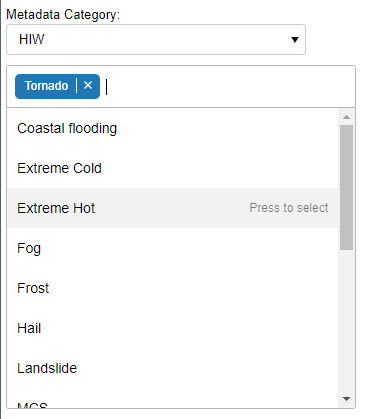
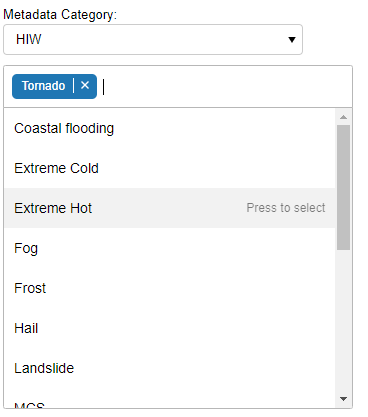
removed the border on the metadata png

Changed region(s): [[0.0, 0.0, 0.9565, 0.9976], [0.6576, 0.4676, 0.8967, 0.53], [0.7772, 0.0624, 0.837, 0.1247]]

diff --git a/docs/source/userguide.rst b/docs/source/userguide.rst
@@ -153,7 +153,7 @@ This button saves all text and annotations currently created in BARC. The title 
 Load button
 ^^^^^^^^^^^
 
-The load button will load your previous annotations and text back into the BARC inteface. By selecting the load button previous saved worked sessions are displayed in the drop-down list. Select the required title to load previous work.
+The load button will load your previous annotations and text back into the BARC inteface. By selecting the load button previous saved worked sessions are displayed including a date stamp of when the work was completed in the drop-down list. Select the required title to load previous work.
 
 Export button
 ^^^^^^^^^^^^^
@@ -842,20 +842,77 @@ The Digital lab book
     :align: right 
     :alt: Free form text boxes for user comments.
 
-This feature enables users to comment on their annotations to provide reasoning and a more in-depth analysis than chart making alone. Similar to annotations, the lab book includes note taking capability that can be saved or exported so thoughts and findings are accessible in the future.
-Each report requires a title this field is manadatory. Once this field is populated the save button will be enabled. Any text entered into the text boxes will be saved.
+This feature enables users to comment on their annotations to provide reasoning and a more in-depth analysis than chart making alone. The lab book includes note taking capability this text can be saved or exported so thoughts and findings are accessible in the future.
+Currently there are four free form text boxes for the user to record their notes. The first text box is the Title box, each report requires a title and is mandatory. This field will be used as the reference for the user to reload there report if required. Once the title field is populated the save button will become active and enabled. 
+The other three text boxes, Comments, Brief Description and Further notes are not mandatory and can contain any text to describe the data.
+ 
 
-.. image:: /images/metadata.png
-    :width: 371px
-    :height: 419px
-    :align: right 
-    :alt: Meta data flags.
 
 
 Metadata Flags
 ^^^^^^^^^^^^^^
+Meta data flags are found at the bottom of the lab book. This feature allows for the user to flag an event by selecting the relavant tag from the dropdown list. There are two catagories of meta data, HIW (High Impact Weather) and Synoptic. 
 
-Meta data flags are found at the bottom of the lab book. This feature allows for the user to flag an event by selecting the relavant tag from the dropdown list. There are two catagories of meta data, HIW (High Impact Weather) and Synoptic. To select meta data, select one of the twocatagories and the select the relavent heading from the drop down menu.
+
+To select meta data, select one of the two catagories and the select the relavent heading from the drop down menu.
+
+
+.. image:: /images/metadata.png
+    :width: 368px 
+    :height: 417px
+    :alt: Meta data flags.
+
+The table below shows the available tags within the two catagories.
+
++----------------------------+--------------------------------------------+
+| HIW                        | Synoptic                                   |
++============================+============================================+
+| Coastal   flooding         | African Easterly Wave                      |
++----------------------------+--------------------------------------------+
+| Extreme   Cold             | Area of low pressure                       |
++----------------------------+--------------------------------------------+
+| Extreme   Hot              | Cold surge                                 |
++----------------------------+--------------------------------------------+
+| Fog                        | Heat wave                                  |
++----------------------------+--------------------------------------------+
+| Frost                      | ITCZ                                       |
++----------------------------+--------------------------------------------+
+| Hail                       | Kelvin wave activity                       |
++----------------------------+--------------------------------------------+
+| Landslide                  | Localised convection                       |
++----------------------------+--------------------------------------------+
+| MCS                        | Meso-scale convection                      |
++----------------------------+--------------------------------------------+
+| Rapid   response flooding  |                                            |
+|                            |    MJO phase 1                             |
++----------------------------+--------------------------------------------+
+| River   flooding           | MJO phase 2                                |
++----------------------------+--------------------------------------------+
+| Snow                       | MJO phase 3                                |
++----------------------------+--------------------------------------------+
+| Storm   / Lightning        | MJO phase 4                                |
++----------------------------+--------------------------------------------+
+| Storm   surge              | MJO phase 5                                |
++----------------------------+--------------------------------------------+
+| Strong   winds or gusts    | MJO phase 6                                |
++----------------------------+--------------------------------------------+
+|                            | MJO phase 7                                |
+|    Surface water flooding  |                                            |
++----------------------------+--------------------------------------------+
+| Tornado                    | MJO phase 8                                |
++----------------------------+--------------------------------------------+
+| Tropical   storm / cyclone | Rossby wave activity                       |
++----------------------------+--------------------------------------------+
+|                            | Sea / lake breeze                          |
++----------------------------+--------------------------------------------+
+|                            | South West Monsoon                         |
++----------------------------+--------------------------------------------+
+|                            | Tropical cyclone (directly   / indirectly) |
++----------------------------+--------------------------------------------+
+|                            | Weak MJO                                   |
++----------------------------+--------------------------------------------+
+
+
 
 
 
